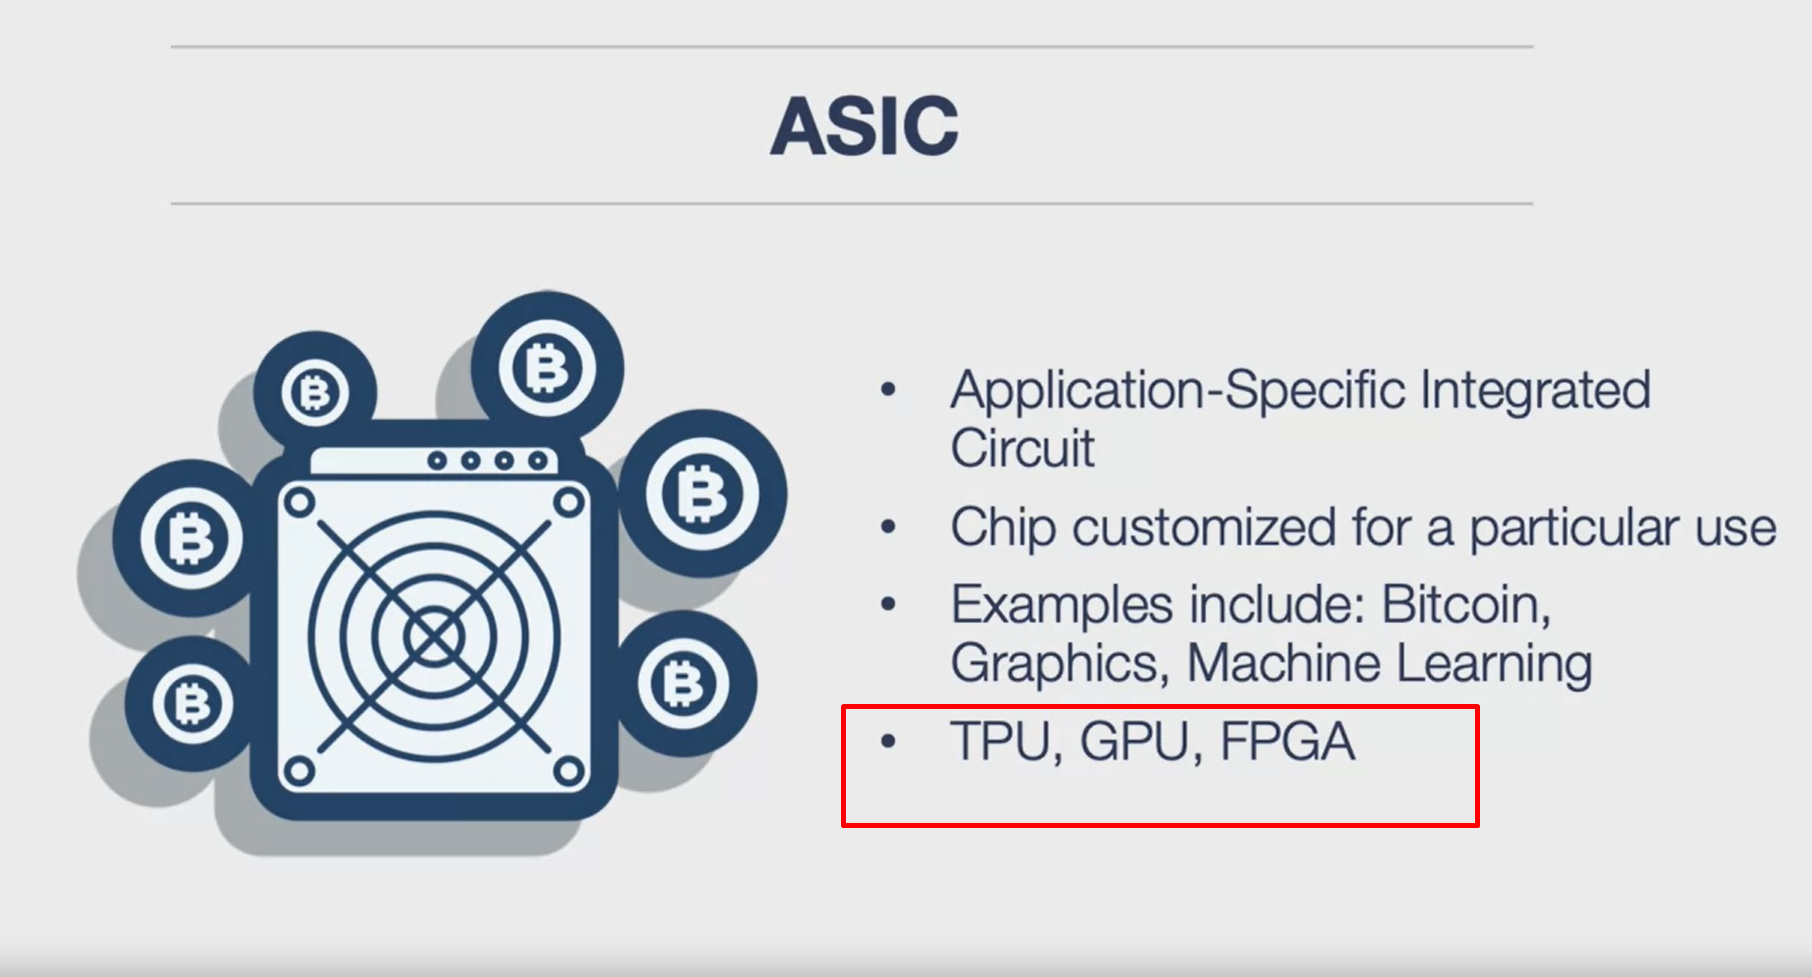
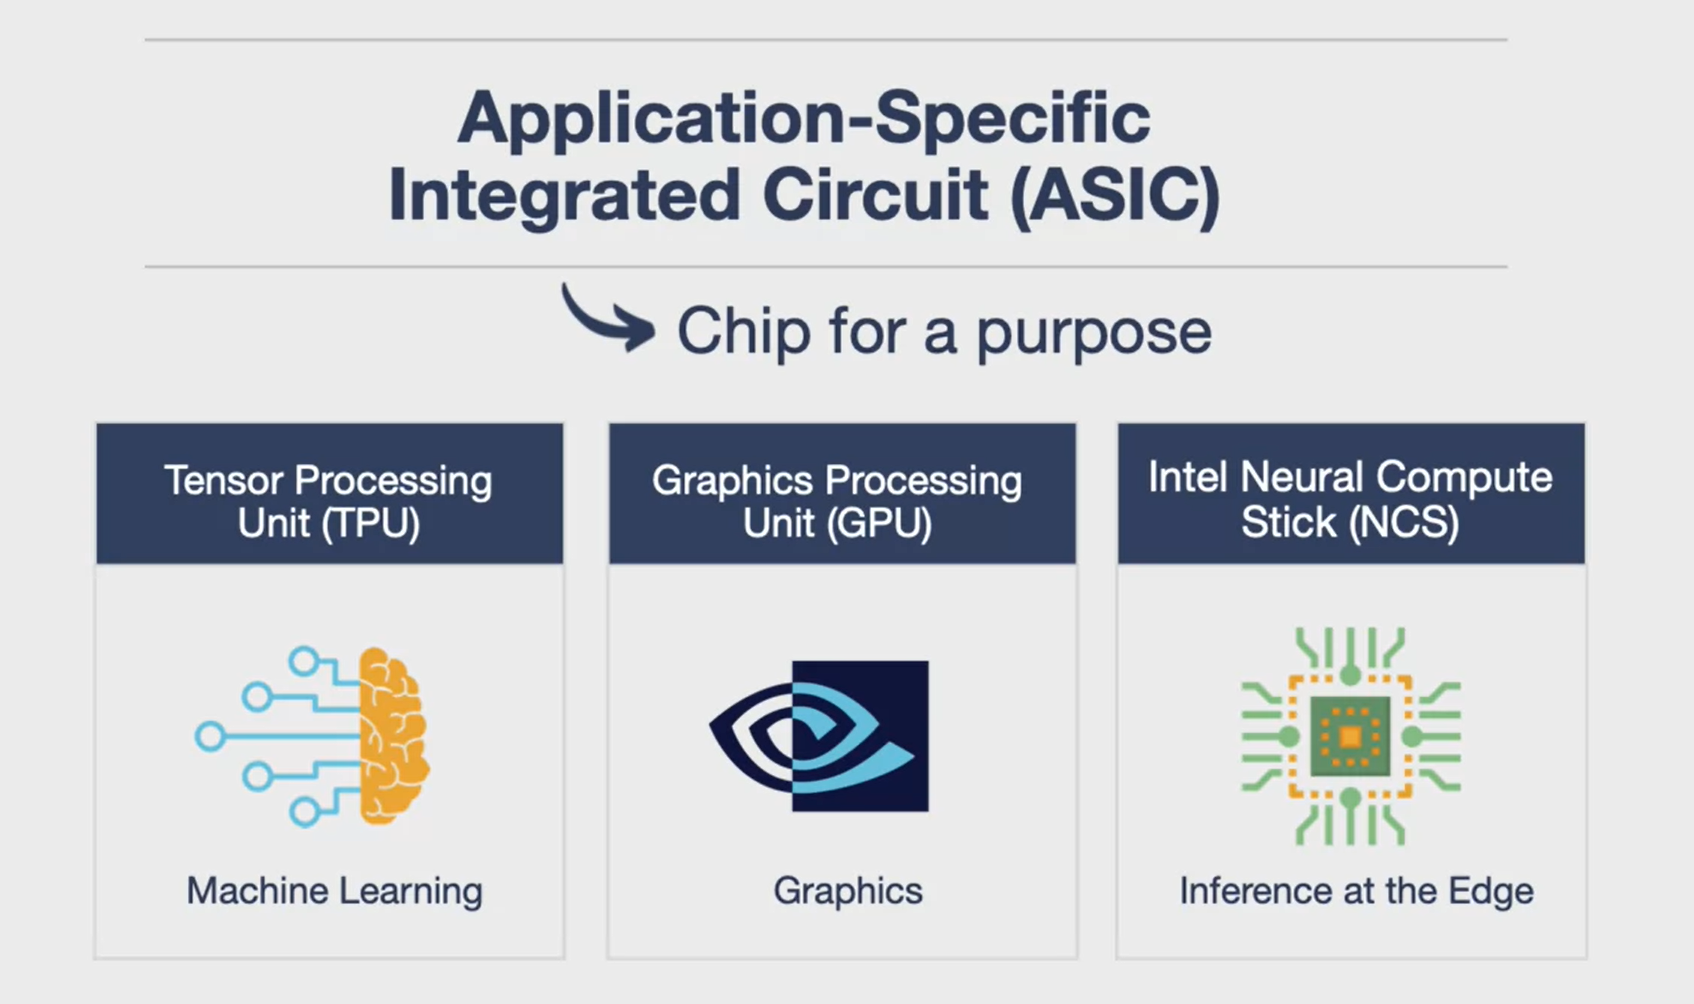
Adding notes on cloud data engineering

diff --git a/pages/general_topic/specialization_building_cloud_computing_solutions_at_scale.md b/pages/general_topic/specialization_building_cloud_computing_solutions_at_scale.md
@@ -628,14 +628,39 @@ The end of Moore's Law doesn't mean the end of technological progress. <mark sty
     
 - **CPU vs ASICs**: While CPUs are designed for general-purpose processing, ASICs like GPUs and TPUs are tailored for specific tasks, offering a potential solution to the challenges posed by the end of Moore’s law.
 
+ - **Paper**: [The Past is Prologue: A New Golden Age for Computer Architecture](https://riscv.org/wp-content/uploads/2018/12/A-New-Golden-Age-for-Computer-Architecture-History-Challenges-and-Opportunities-David-Patterson-.pdf)
+
+
 ## CUDA
 
 ![](../../images/cuda.png)
+
+- **Numba**: is a library that allows for GPU programming or Just-In-Time compilation. It offers various techniques and examples for usage.
+
+- **CUDA Coding**: CUDA is a method of GPU programming specific to Nvidia. 
 
 ## ASIC
 
 ![](../../images/asic.png)
 
+- **ASICs**: ASIC stands for Application Specific Integrated Circuit. Unlike a CPU, which is designed for many tasks, an ASIC is a chip designed for a specific purpose.
+    
+- **TPUs**: Tensor Processing Units (TPUs) are ASICs designed by Google to optimize machine learning code using the TensorFlow framework. They can even run TensorFlow Lite models on edge-based devices.
+    
+- **GPUs**: Graphics Processing Units (GPUs) are ASICs designed for graphics programming. They have many cores for parallel processing, making them different from CPUs.
+    
+- **Intel Neural Compute Stick**: This is an edge-based compute stick optimized for inference on the edge. It can be plugged into a mobile computing framework like Raspberry Pi for predictions.
+    
+- **Future of ASICs**: The prevalence of ASICs is expected to increase, especially in computer vision. It’s important to master these technologies for future developments.
+
+## Comparison
+
+ - CPU:
+![](../../images/cpu.png)
+ - GPU:
+![](../../images/gpu.png)
+ - TPU:
+![](../../images/tpu.png)
 
 ---
 <a name="04"></a>
